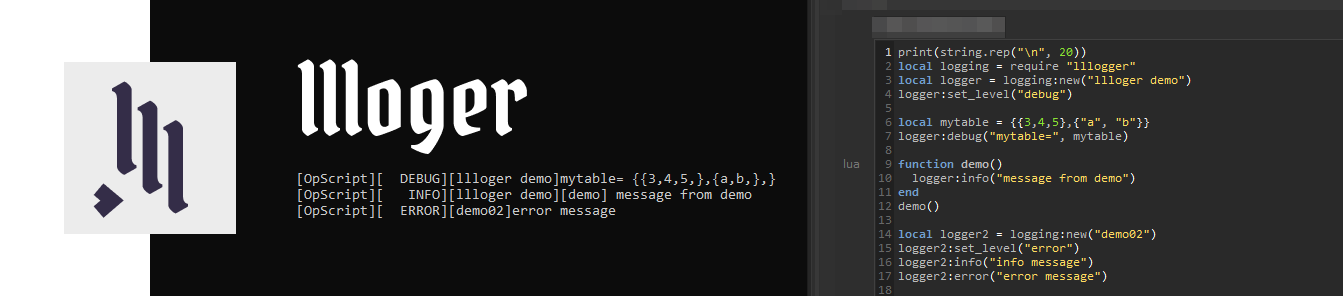
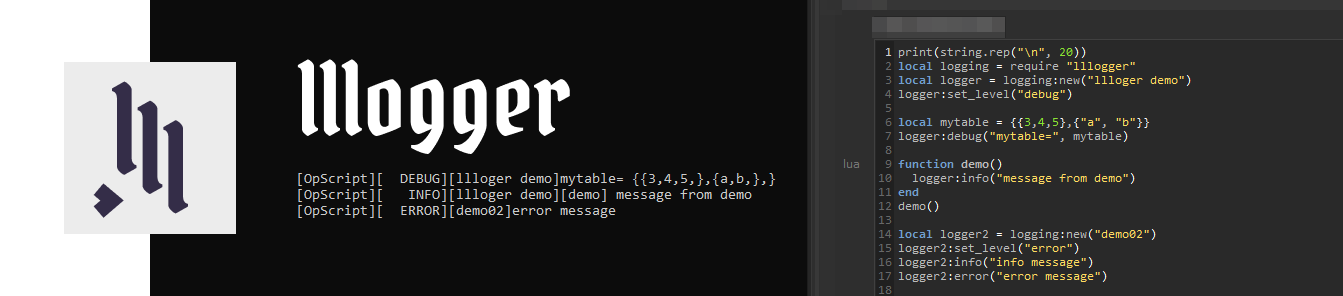
fixed name typo on images

Changed region(s): [[0.3358, 0.2736, 0.4274, 0.5169]]

diff --git a/README.md b/README.md
@@ -9,6 +9,7 @@ Originaly intended to be use with Foundry's Katana software, OpScript feature.
 
 ![cover](./doc/img/cover.png)
 
+> **Warning**
 > I must mention the BIG typo in the repo's name where I forgot a `g`. So it's
 > actually called `lllogger` not `llloger`.
 
